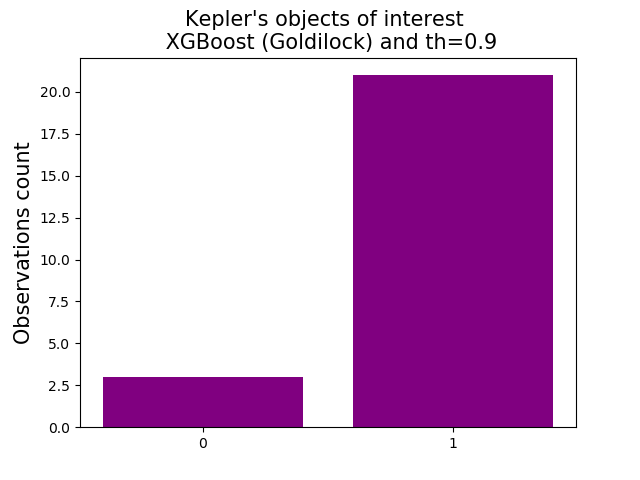
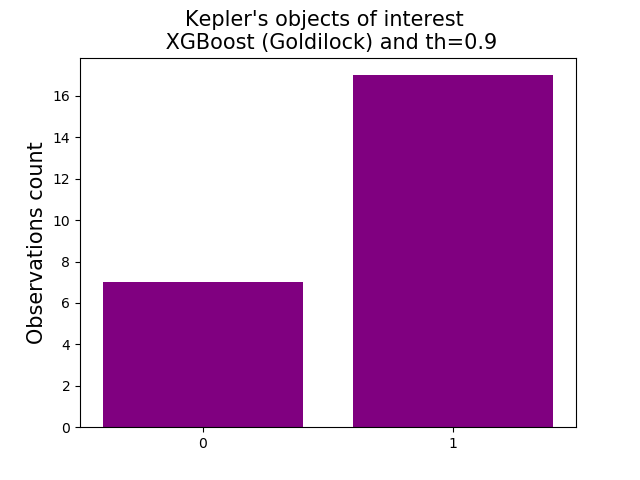
threshold xgb

diff --git a/Project3/XGBoost.py b/Project3/XGBoost.py
@@ -62,7 +62,7 @@ def XG_Boost(X_train, X_test, y_train, y_test, candidates, GoldiLock,   \
                           n_estimators=1000,
                           subsample=0.5,
                           colsample_bytree=0.6,
-                          objective= 'binary:logistic',
+                          objective= 'reg:logistic',
                           nthread=4,
                           scale_pos_weight=1,
                           seed=seed)
@@ -115,9 +115,11 @@ def XG_Boost(X_train, X_test, y_train, y_test, candidates, GoldiLock,   \
 
     # Maa legge inn threshold metode her
 
-    pred_cand  = model2.predict(candidates)
-    print(pred_cand)
-    print(model2.predict_proba(candidates))
+    pred_cand  = model2.predict_proba(candidates)
+
+    # Prediction with threshold
+    pred_cand[:,0] = (pred_cand[:,0] < threshold).astype('int')
+    pred_cand[:,1] = (pred_cand[:,1] >= threshold).astype('int')
 
     # Divide into predicted false positives and confirmed exoplanets
     pred_FP    = (pred_cand == 0).sum() 	# Predicted false positives
@@ -143,11 +145,14 @@ def XG_Boost(X_train, X_test, y_train, y_test, candidates, GoldiLock,   \
         # Maa legge inn threshold metode her
 
         D_test             = GoldiLock
-        predict_goldilocks = model2.predict(D_test)
+        predict_goldilocks = model2.predict_proba(D_test)
         #np.save('GoldiLock_predicted', predict_goldilocks)
 
-        predicted_false_positive_goldilocs  = (predict_goldilocks == 0).sum()
-        predicted_exoplanets_goldilocks     = (predict_goldilocks == 1).sum()
+        predict_goldilocks[:,0] = (predict_goldilocks[:,0] < threshold).astype('int')
+        predict_goldilocks[:,1] = (predict_goldilocks[:,1] >= threshold).astype('int')
+
+        predicted_false_positive_goldilocs  = (predict_goldilocks[:,1] == 0).sum()
+        predicted_exoplanets_goldilocks     = (predict_goldilocks[:,1] == 1).sum()
 
         # Information print to terminal
         print('\nThe XGBoost method predicted')
@@ -156,6 +161,6 @@ def XG_Boost(X_train, X_test, y_train, y_test, candidates, GoldiLock,   \
         print('%-3g false positives of %g candidates'  %(predicted_false_positive_goldilocs, len(predict_goldilocks)))
 
         # Plotting a bar plot of candidates predicted as confirmed and false positives
-        func.Histogram2(predict_goldilocks, 'XGBoost (Goldilock)', threshold)
+        func.Histogram2(predict_goldilocks[:,1], 'XGBoost (Goldilock)', threshold)
 
-        GL.GoldilocksZone(predict_goldilocks, 'XGBoost', threshold)
+        GL.GoldilocksZone(predict_goldilocks[:,1], 'XGBoost', threshold)
